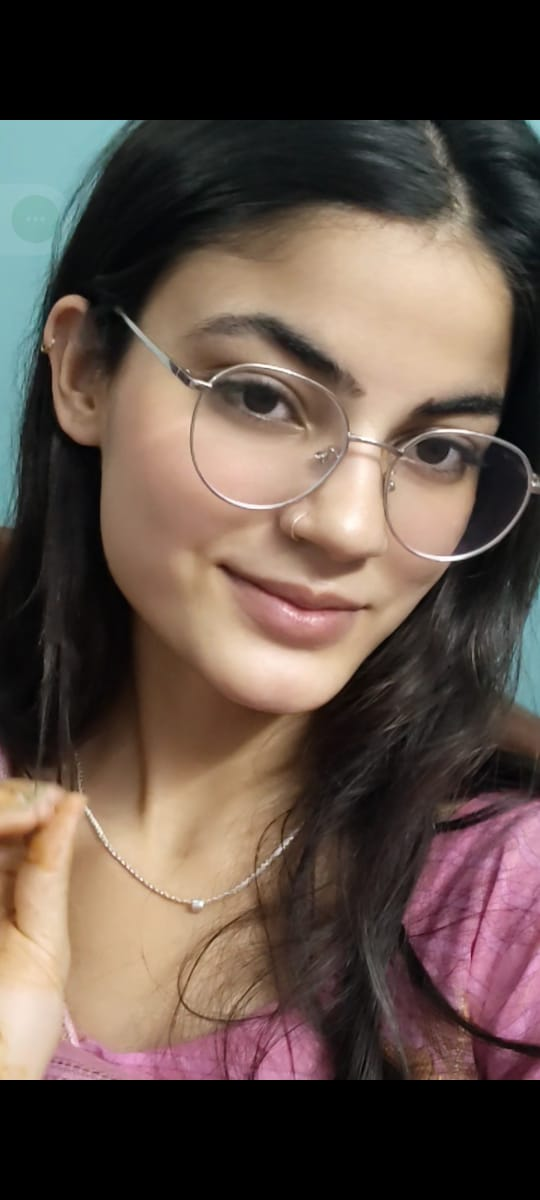
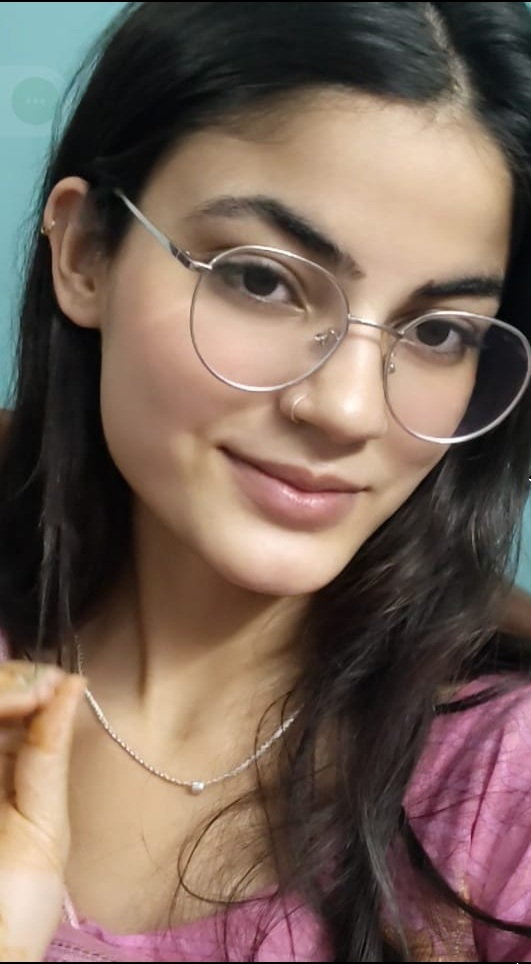
Update Size of image

diff --git a/src/pages/About.jsx b/src/pages/About.jsx
@@ -15,11 +15,11 @@ function About() {
 
       {/* Main Content */}
       <div className="relative z-50 flex sm:flex-row flex-col items-center sm:items-start w-full justify-center gap-7 p-10 sm:p-30">
-        <div className="w-2/3 sm:w-40">
+        <div className="w-full sm:w-40">
           <motion.img
             src={myImage}
             alt=""
-            className="overflow-hidden  rounded sm:rounded object-cover w-100 sm:w-full h-120 sm:h-60 p-5 sm:p-0"
+            className="sm:overflow-hidden  rounded sm:rounded object-cover w-full sm:w-full h-120 sm:h-60 p-5 sm:p-0"
             whileHover={{ scale: 1.05 }}
             transition={{ type: "spring", stiffness: 400, damping: 10 }}
           />

diff --git a/src/pages/Project.jsx b/src/pages/Project.jsx
@@ -2,6 +2,7 @@ import React, { useEffect, useMemo, useState, useRef } from "react";
 import header_img from "../assets/header_img.png";
 import hero from "../assets/hero3.png";
 import Forever from "../assets/Forvever.png";
+import about from "../assets/about_img.png";
 import project_img_2 from "../assets/project_img_2.jpg";
 import { useMotionValueEvent, useScroll } from "framer-motion";
 import gallery from "../assets/gallery-3.png";
@@ -48,7 +49,7 @@ function Project() {
         title: "Forever",
         link: "https://forever-sandy-one.vercel.app",
         bgcolor: "#d2628f",
-        image: isMobile ? gallery : Forever,
+        image: isMobile ? about : Forever,
       },
     ],
     [isMobile],
